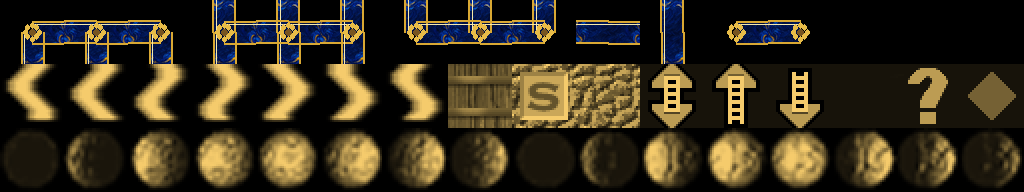
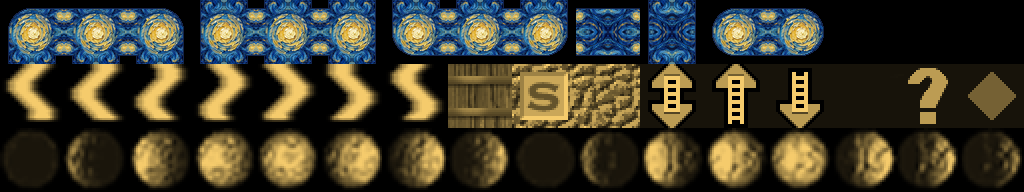
Give Van Gogh frames wider starry impasto borders

Changed region(s): [[0.0, 0.0, 0.8125, 0.3438]]

diff --git a/web/tests/expandedArt.test.ts b/web/tests/expandedArt.test.ts
@@ -239,6 +239,25 @@ describe('opt-in Van Gogh art package', () => {
     expect(VEGETATION_LAYOUTS['Van Gogh']).toEqual(VEGETATION_LAYOUTS.Standard);
   });
 
+  it('joins substantial starry border strokes without seams and keeps painted star junctions', () => {
+    const ui = rgba('UI');
+    let width = 0;
+    for (let n = 0; n < 64; n++) {
+      expect(ui(9 * 64, n)).toEqual(ui(10 * 64 - 1, n));
+      expect(ui(10 * 64 + n, 0)).toEqual(ui(10 * 64 + n, 63));
+      if (
+        ui(9 * 64, n)
+          .subarray(0, 3)
+          .some((v) => v > 30)
+      )
+        width++;
+    }
+    expect(width).toBeGreaterThan(40);
+    const star = ui(32, 32);
+    expect(star[0]).toBeGreaterThan(120);
+    expect(star[1]).toBeGreaterThan(100);
+    expect(star[3]).toBe(255);
+  });
   it('ships readable complete serif lettering and painted interior materials rather than VGA fallbacks', () => {
     const font = rgba('Font'),
       materials = rgba('DungeonMaterials');

diff --git a/web/tools/prepare-van-gogh-interiors.py b/web/tools/prepare-van-gogh-interiors.py
@@ -9,7 +9,7 @@ import argparse
 import hashlib
 import json
 import math
-from PIL import Image, ImageDraw, ImageFont
+from PIL import Image, ImageDraw, ImageFont, ImageOps, ImageFilter
 
 ROOT = Path(__file__).resolve().parents[1]
 DOC = ROOT / 'docs/generated/van-gogh'
@@ -61,39 +61,41 @@ for y in range(64,192):
     for x in range(1024):
         r,g,b,a=old.getpixel((x,y)); light=max(r,g,b)/255
         ui.putpixel((x,y),(round(245*light),round(203*light),round(108*light),a))
-# Gold-edged cobalt enamel frame junctions, matching the existing Piece slots.
+# Generated Starry Night impasto material, fitted to the original Piece slots.
+# Mirror a swatch so repeated straight pieces meet on identical edge pixels.
+starry=Image.open(DOC / 'starry-border-draft.png').convert('RGBA')
+sw,sh=starry.size
+swatch=starry.crop((int(sw*.17),int(sh*.16),int(sw*.43),int(sh*.42))).resize((32,32),Image.Resampling.LANCZOS)
+texture=Image.new('RGBA',(64,64))
+texture.paste(swatch,(0,0));texture.paste(ImageOps.mirror(swatch),(32,0))
+texture.paste(ImageOps.flip(swatch),(0,32));texture.paste(ImageOps.flip(ImageOps.mirror(swatch)),(32,32))
+# One painted golden star supplies junctions/caps, rather than geometric metal.
+star=starry.crop((int(sw*.505),int(sh*.035),int(sw*.585),int(sh*.115))).resize((46,46),Image.Resampling.LANCZOS)
+star_mask=Image.new('L',(46,46));ImageDraw.Draw(star_mask).ellipse((1,1,44,44),fill=255)
+star_mask=star_mask.filter(ImageFilter.GaussianBlur(1))
 paths={0:['right','down'],1:['left','right','down'],2:['left','down'],
        3:['up','right','down'],4:['up','right','down','left'],5:['up','left','down'],
        6:['up','right'],7:['up','left','right'],8:['up','left'],9:['left','right'],
        10:['up','down'],11:['right'],12:['left']}
 for slot,directions in paths.items():
-    tile=Image.new('RGBA',(64,64),(0,0,0,255)); d=ImageDraw.Draw(tile)
-    texture=menu.resize((64,64),Image.Resampling.LANCZOS)
-    mask=Image.new('L',(64,64)); md=ImageDraw.Draw(mask)
+    tile=Image.new('RGBA',(64,64),(0,0,0,255))
+    mask=Image.new('L',(64,64));md=ImageDraw.Draw(mask)
     endpoints={'left':(0,32),'right':(64,32),'up':(32,0),'down':(32,64)}
     for direction in directions:
-        end=endpoints[direction]
-        md.line((32,32,*end),fill=255,width=22)
-    tile.paste(texture,(0,0),mask);d=ImageDraw.Draw(tile)
-    for direction in directions:
-        ex,ey=endpoints[direction]
-        if direction in ['left','right']:
-            for yy in [21,43]: d.line((32,yy,ex,yy),fill='#d9a833',width=2)
-            d.line((32,24,ex,24),fill='#f8e9aa',width=1)
-        else:
-            for xx in [21,43]: d.line((xx,32,xx,ey),fill='#d9a833',width=2)
-            d.line((24,32,24,ey),fill='#f8e9aa',width=1)
-    if len(directions)!=2 or slot in [0,2,6,8]:
-        for petal in range(8):
-            angle=petal*math.pi/4
-            cx,cy=32+math.cos(angle)*7,32+math.sin(angle)*7
-            d.ellipse((cx-2,cy-3,cx+2,cy+3),fill='#e8bc48')
-        d.ellipse((29,29,35,35),fill='#775420')
+        band={'left':(0,9,32,54),'right':(32,9,63,54),'up':(9,0,54,32),'down':(9,32,54,63)}[direction]
+        md.rectangle(band,fill=255)
+    md.ellipse((9,9,54,54),fill=255)
+    # Dark blue outer paint grounds the luminous brush strokes against black.
+    tile.paste('#14244b',(0,0,64,64),mask.filter(ImageFilter.MaxFilter(3)))
+    tile.paste(texture,(0,0),mask)
+    if slot not in [9,10]:
+        tile.paste(star,(9,9),star_mask)
     ui.paste(tile,(slot*64,0))
 ui.save(OUT / 'Van Gogh-UI.png')
 files=sorted(OUT.glob('Van Gogh-*.png'))
 manifest=json.loads((DOC/'manifest.json').read_text())
 manifest['interiorGenerator']='OpenAI built-in image_gen; tools/prepare-van-gogh-interiors.py'
+manifest['border']='Generated Starry Night impasto swirls and star junctions; original functional UI slots preserved'
 manifest['font']='Rasterized Georgia Bold at 40px with a shared baseline into 32px cells; no font software bundled'
 manifest['files']={p.name:hashlib.sha256(p.read_bytes()).hexdigest() for p in files}
 (DOC/'manifest.json').write_text(json.dumps(manifest,indent=2)+'\n')
